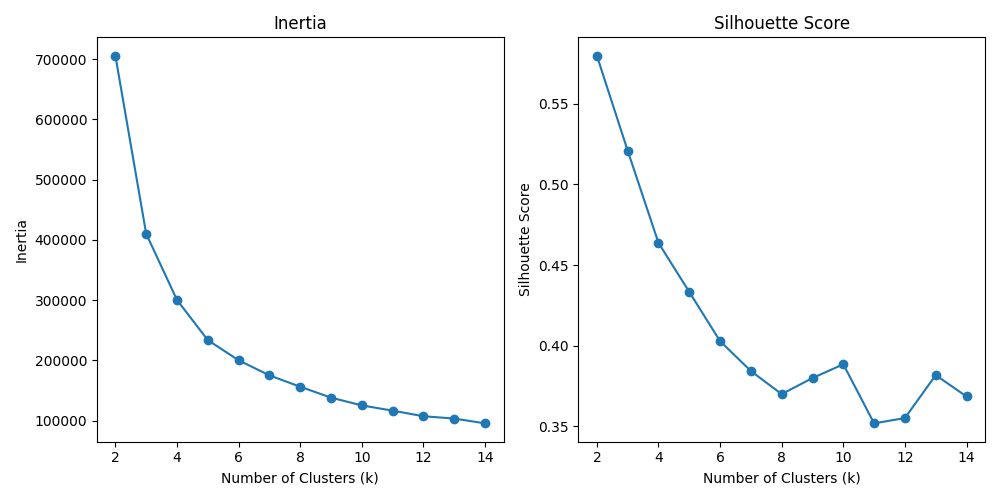
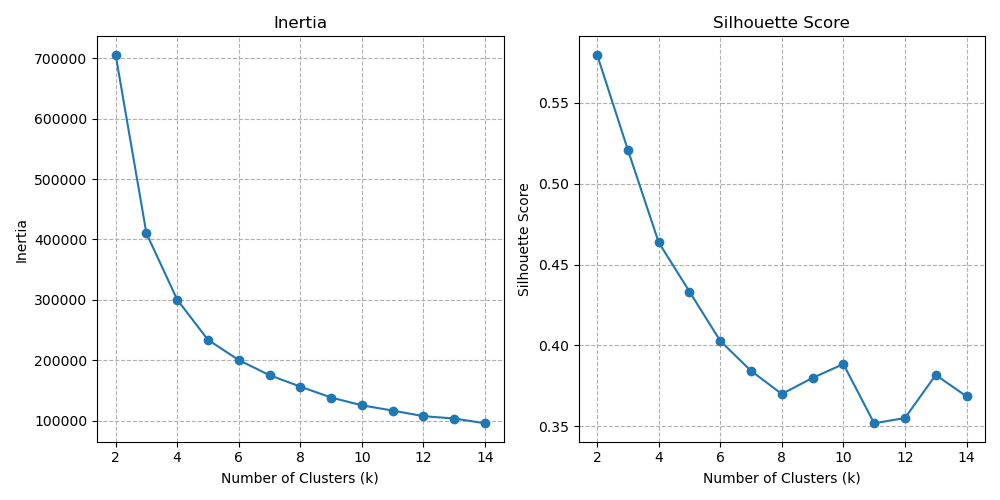
modifiche finale

diff --git a/Project/kmeans.py b/Project/kmeans.py
@@ -26,6 +26,7 @@ plt.figure(figsize=(10, 5))
 
 # intertia plot
 plt.subplot(1, 2, 1)
+plt.grid(True, linestyle='--', alpha=1)
 plt.plot(k_values, inertias, marker='o')
 plt.title('Inertia')
 plt.xlabel('Number of Clusters (k)')
@@ -33,6 +34,7 @@ plt.ylabel('Inertia')
 
 # silhouette plot
 plt.subplot(1, 2, 2)
+plt.grid(True, linestyle='--', alpha=1)
 plt.plot(k_values, silhouette_scores, marker='o')
 plt.title('Silhouette Score')
 plt.xlabel('Number of Clusters (k)')
@@ -44,7 +46,7 @@ plt.show()
 # where the inertia starts to decrease more slowly or where the silhouette score is maximized.
 # so there is a tradeoff between the silhouette score and the inertia. 
 # given the plot, we will chose k = 10
-best_k = 10
+best_k = 5
 best_kmeans = KMeans(n_clusters=best_k, random_state=42)
 best_kmeans.fit(X_train)
 
